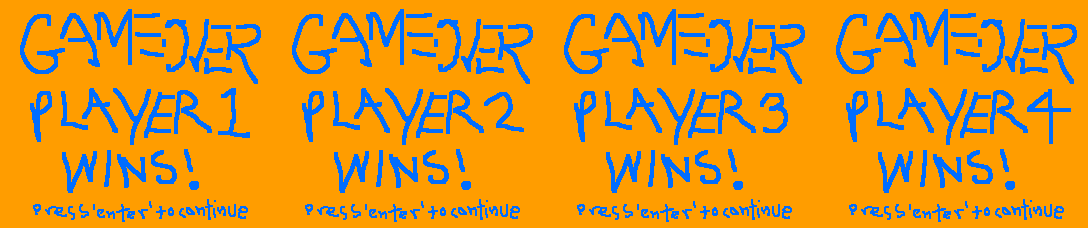
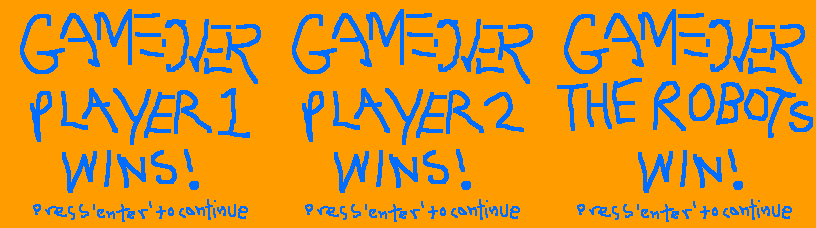
Change game over conditions

diff --git a/lib/bundle.js b/lib/bundle.js
@@ -672,7 +672,6 @@
 	  this.initialize();
 	  this.generateBlocks();
 	
-	  debugger
 	  if (this.musicOn) {
 	    this.playMusic();
 	  }
@@ -915,11 +914,51 @@
 	};
 	
 	GameMap.prototype.checkWinner = function () {
-	  if (this.numPlayers === 1) {
-	    return this.characters[0].playerNum;
+	  // if (this.computer === true) {
+	  //   if (this.findCharacterByNum(1) && this.numPlayers === 1) {
+	  //     return 1;
+	  //   } else if (this.numPlayers === 1 || this.findCharacterByNum(1) === false) {
+	  //     return 3;
+	  //   } else {
+	  //     return false;
+	  //   }
+	  // } else {
+	  //   if (this.findCharacterByNum(1) && this.numPlayers === 1) {
+	  //     return 1;
+	  //   } else if (this.findCharacterByNum(2) && this.numPlayers === 1) {
+	  //     return 2;
+	  //   } else if (this.findCharacterByNum(1) === false && this.findCharacterByNum(2) === false) {
+	  //     return 3;
+	  //   } else {
+	  //     return false;
+	  //   }
+	  // }
+	  if (this.computer === true) {
+	    if (this.p1Lives === 0) {
+	      return 3;
+	    } else if (this.numPlayers === 1 && this.findCharacterByNum(1) === 0) {
+	      return 1;
+	    } else {
+	      return false;
+	    }
 	  } else {
-	    return false;
+	    if (this.p1Lives === 0 && this.p2Lives === 0) {
+	      return 3;
+	    } else if (this.numPlayers === 1 && this.findCharacterByNum(1) === 0) {
+	      return 1;
+	    } else if (this.numPlayers === 1 && this.findCharacterByNum(2) === 0) {
+	      return 2;
+	    } else {
+	      return false;
+	    }
 	  }
+	  // if (this.computer === true && this.numPlayers === 1) {
+	  //   return this.characters[0].playerNum;
+	  // } else if (this.numPlayers === 0) {
+	  //   return 3;
+	  // } else {
+	  //   return false;
+	  // }
 	};
 	
 	GameMap.prototype.isPath = function (pos) {
@@ -1075,7 +1114,8 @@
 	  this.characters.forEach( (character, index) => {
 	    if ((this.isTopPathUnsafe(character) || this.isRightPathUnsafe(character) ||
 	    this.isBottomPathUnsafe(character) || this.isLeftPathUnsafe(character)) && !character.invincible) {
-	      this.removeCharacter(index);
+	
+	      this.removeCharacter(this.findCharacterByNum(character.playerNum));
 	    }
 	    let powerupObj = this.isOnPowerup(character);
 	    if (powerupObj.isPowerup) {
@@ -1119,7 +1159,6 @@
 	
 	    character.animateDie();
 	    this.decrementLives(character.playerNum);
-	
 	    setTimeout(() => {
 	      this.respawnCharacter(character, index);
 	    }, 500);
@@ -1127,10 +1166,7 @@
 	
 	    this.decrementLives(character.playerNum);
 	    character.animateDie();
-	
-	
 	    setTimeout(() => {
-	      this.losers.push(character.playerNum);
 	      this.numPlayers -= 1;
 	      this.characters.splice(index, 1);
 	    }, 500);
@@ -1143,6 +1179,7 @@
 	      return i;
 	    }
 	  }
+	  return false;
 	};
 	
 	GameMap.prototype.respawnCharacter  = function (character, index) {
@@ -1171,22 +1208,10 @@
 	  }
 	};
 	
-	GameMap.prototype.bottomLeftEmpty = function (i, j) {
-	  if (this.numPlayers >= 3) {
-	    return (i > 9 && j < 3);
-	  }
-	};
-	
-	GameMap.prototype.bottomRightEmpty = function (i, j) {
-	  if (this.numPlayers === 4) {
-	    return (i > 9 && j > 13);
-	  }
-	};
-	
 	GameMap.prototype.generateBlocks = function () {
 	  for (var i = 0; i < this.tiles.length; i++) {
 	    for (var j = 0; j < this.tiles[i].length; j++) {
-	      if ((i < 3 && j < 3) || (j > 13 && i < 3) || this.bottomRightEmpty(i, j) || this.bottomLeftEmpty(i, j)) {
+	      if ((i < 3 && j < 3) || (j > 13 && i < 3) || (i > 9 && j < 3) || (i > 9 && j > 13)) {
 	        continue;
 	      } else if (this.tiles[i][j].type === 'path' && Math.random() < 0.5){
 	        this.tiles[i][j].type = 'block';
@@ -1219,7 +1244,6 @@
 	  this.time = 0;
 	  this.destroyTime = 200;
 	  this.frame = 0;
-	  // this.refreshIntervalId = null;
 	};
 	
 	Tile.prototype.destroy = function () {
@@ -1231,8 +1255,6 @@
 	    this.frame += 1;
 	  }
 	};
-	
-	
 	
 	Tile.prototype.animateDestroy = function () {
 	    this.refreshIntervalId = setInterval( () => { this.destroy(); }, 80 );

diff --git a/lib/gamemap.js b/lib/gamemap.js
@@ -151,7 +151,6 @@ var GameMap = function (musicOn, numPlayers) {
   this.initialize();
   this.generateBlocks();
 
-  debugger
   if (this.musicOn) {
     this.playMusic();
   }
@@ -394,11 +393,51 @@ GameMap.prototype.renderMap = function (ctx) {
 };
 
 GameMap.prototype.checkWinner = function () {
-  if (this.numPlayers === 1) {
-    return this.characters[0].playerNum;
+  // if (this.computer === true) {
+  //   if (this.findCharacterByNum(1) && this.numPlayers === 1) {
+  //     return 1;
+  //   } else if (this.numPlayers === 1 || this.findCharacterByNum(1) === false) {
+  //     return 3;
+  //   } else {
+  //     return false;
+  //   }
+  // } else {
+  //   if (this.findCharacterByNum(1) && this.numPlayers === 1) {
+  //     return 1;
+  //   } else if (this.findCharacterByNum(2) && this.numPlayers === 1) {
+  //     return 2;
+  //   } else if (this.findCharacterByNum(1) === false && this.findCharacterByNum(2) === false) {
+  //     return 3;
+  //   } else {
+  //     return false;
+  //   }
+  // }
+  if (this.computer === true) {
+    if (this.p1Lives === 0) {
+      return 3;
+    } else if (this.numPlayers === 1 && this.findCharacterByNum(1) === 0) {
+      return 1;
+    } else {
+      return false;
+    }
   } else {
-    return false;
+    if (this.p1Lives === 0 && this.p2Lives === 0) {
+      return 3;
+    } else if (this.numPlayers === 1 && this.findCharacterByNum(1) === 0) {
+      return 1;
+    } else if (this.numPlayers === 1 && this.findCharacterByNum(2) === 0) {
+      return 2;
+    } else {
+      return false;
+    }
   }
+  // if (this.computer === true && this.numPlayers === 1) {
+  //   return this.characters[0].playerNum;
+  // } else if (this.numPlayers === 0) {
+  //   return 3;
+  // } else {
+  //   return false;
+  // }
 };
 
 GameMap.prototype.isPath = function (pos) {
@@ -554,7 +593,8 @@ GameMap.prototype.checkCharacter = function () {
   this.characters.forEach( (character, index) => {
     if ((this.isTopPathUnsafe(character) || this.isRightPathUnsafe(character) ||
     this.isBottomPathUnsafe(character) || this.isLeftPathUnsafe(character)) && !character.invincible) {
-      this.removeCharacter(index);
+
+      this.removeCharacter(this.findCharacterByNum(character.playerNum));
     }
     let powerupObj = this.isOnPowerup(character);
     if (powerupObj.isPowerup) {
@@ -598,7 +638,6 @@ GameMap.prototype.removeCharacter = function (index) {
 
     character.animateDie();
     this.decrementLives(character.playerNum);
-
     setTimeout(() => {
       this.respawnCharacter(character, index);
     }, 500);
@@ -606,10 +645,7 @@ GameMap.prototype.removeCharacter = function (index) {
 
     this.decrementLives(character.playerNum);
     character.animateDie();
-
-
     setTimeout(() => {
-      this.losers.push(character.playerNum);
       this.numPlayers -= 1;
       this.characters.splice(index, 1);
     }, 500);
@@ -622,6 +658,7 @@ GameMap.prototype.findCharacterByNum = function (num) {
       return i;
     }
   }
+  return false;
 };
 
 GameMap.prototype.respawnCharacter  = function (character, index) {
@@ -650,22 +687,10 @@ GameMap.prototype.drawFrame = function (ctx) {
   }
 };
 
-GameMap.prototype.bottomLeftEmpty = function (i, j) {
-  if (this.numPlayers >= 3) {
-    return (i > 9 && j < 3);
-  }
-};
-
-GameMap.prototype.bottomRightEmpty = function (i, j) {
-  if (this.numPlayers === 4) {
-    return (i > 9 && j > 13);
-  }
-};
-
 GameMap.prototype.generateBlocks = function () {
   for (var i = 0; i < this.tiles.length; i++) {
     for (var j = 0; j < this.tiles[i].length; j++) {
-      if ((i < 3 && j < 3) || (j > 13 && i < 3) || this.bottomRightEmpty(i, j) || this.bottomLeftEmpty(i, j)) {
+      if ((i < 3 && j < 3) || (j > 13 && i < 3) || (i > 9 && j < 3) || (i > 9 && j > 13)) {
         continue;
       } else if (this.tiles[i][j].type === 'path' && Math.random() < 0.5){
         this.tiles[i][j].type = 'block';
